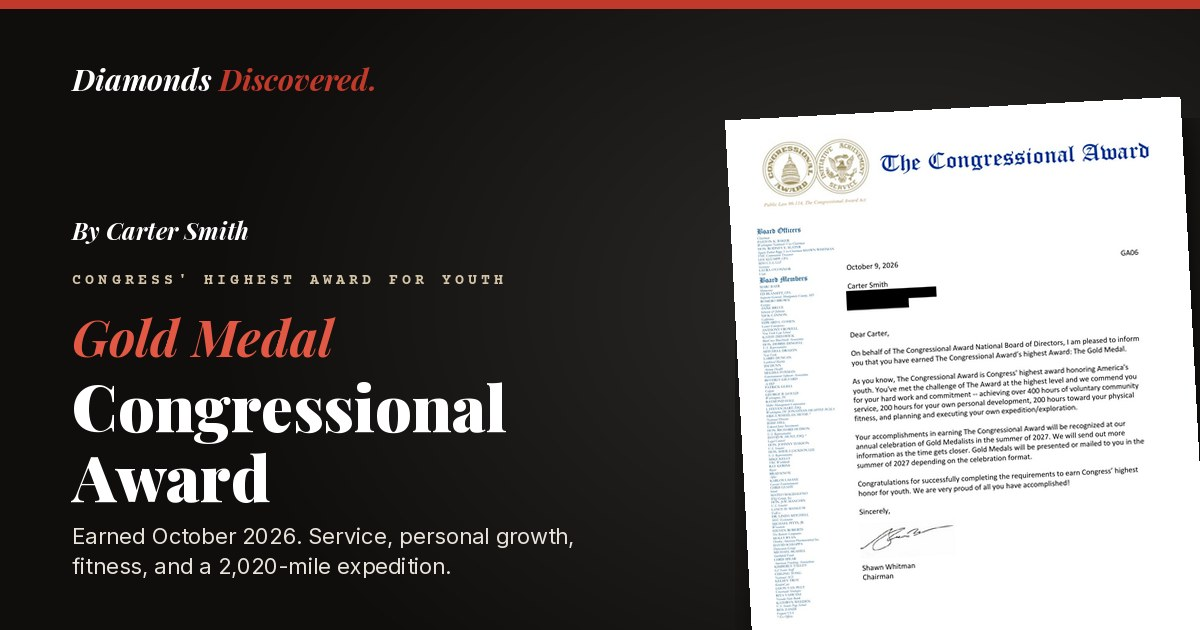
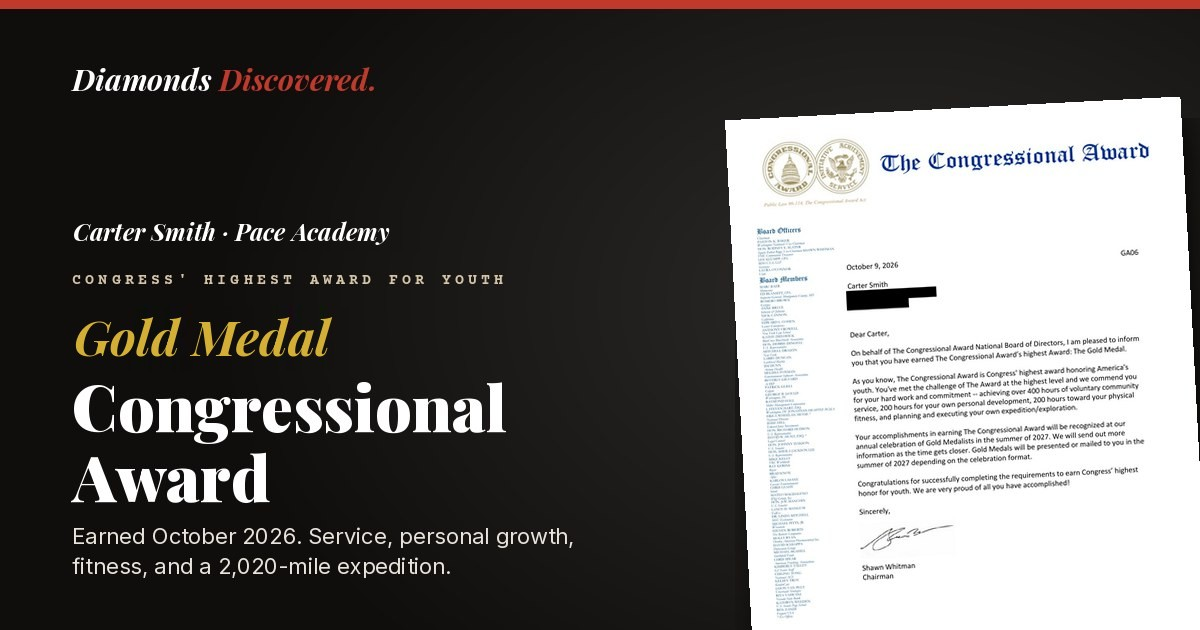
Award share card: Pace Academy byline, gold Gold Medal

Changed region(s): [[0.0617, 0.4825, 0.2775, 0.573], [0.0617, 0.3317, 0.3392, 0.3921]]

diff --git a/award.html b/award.html
@@ -14,14 +14,14 @@
 <meta name="author" content="Carter Smith">
 <meta property="article:author" content="Carter Smith">
   <meta property="og:url" content="https://diamondsdiscovered.com/award.html">
-  <meta property="og:image" content="https://diamondsdiscovered.com/award-share.jpg">
+  <meta property="og:image" content="https://diamondsdiscovered.com/award-share.jpg?v=2">
   <meta property="og:image:width" content="1200">
   <meta property="og:image:height" content="630">
   <meta property="og:image:alt" content="Carter Smith's Congressional Award Gold Medal letter, October 2026">
   <meta name="twitter:card" content="summary_large_image">
   <meta name="twitter:title" content="Congressional Award Gold Medal - Carter Smith, Pace Academy">
   <meta name="twitter:description" content="How Carter Smith earned the Congressional Award Gold Medal, what it takes, and the lessons he learned along the way.">
-  <meta name="twitter:image" content="https://diamondsdiscovered.com/award-share.jpg">
+  <meta name="twitter:image" content="https://diamondsdiscovered.com/award-share.jpg?v=2">
 
   <!-- GTM -->
   <script>(function(w,d,s,l,i){w[l]=w[l]||[];w[l].push({'gtm.start':new Date().getTime(),event:'gtm.js'});var f=d.getElementsByTagName(s)[0],j=d.createElement(s),dl=l!='dataLayer'?'&l='+l:'';j.async=true;j.src='https://www.googletagmanager.com/gtm.js?id='+i+dl;f.parentNode.insertBefore(j,f);})(window,document,'script','dataLayer','GTM-56HXCB96');</script>
